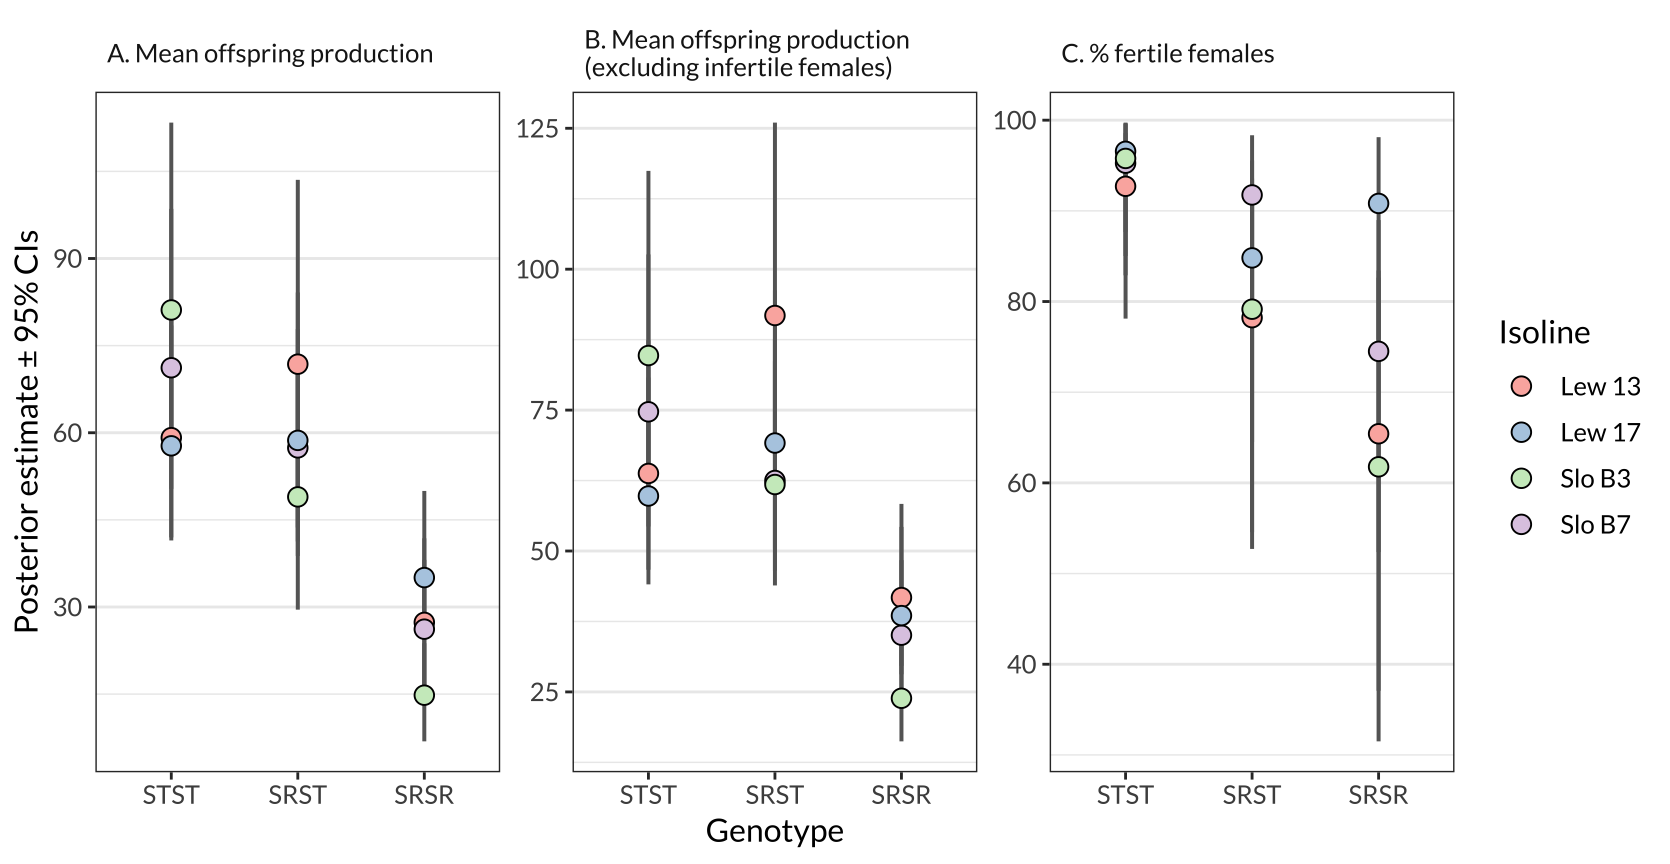
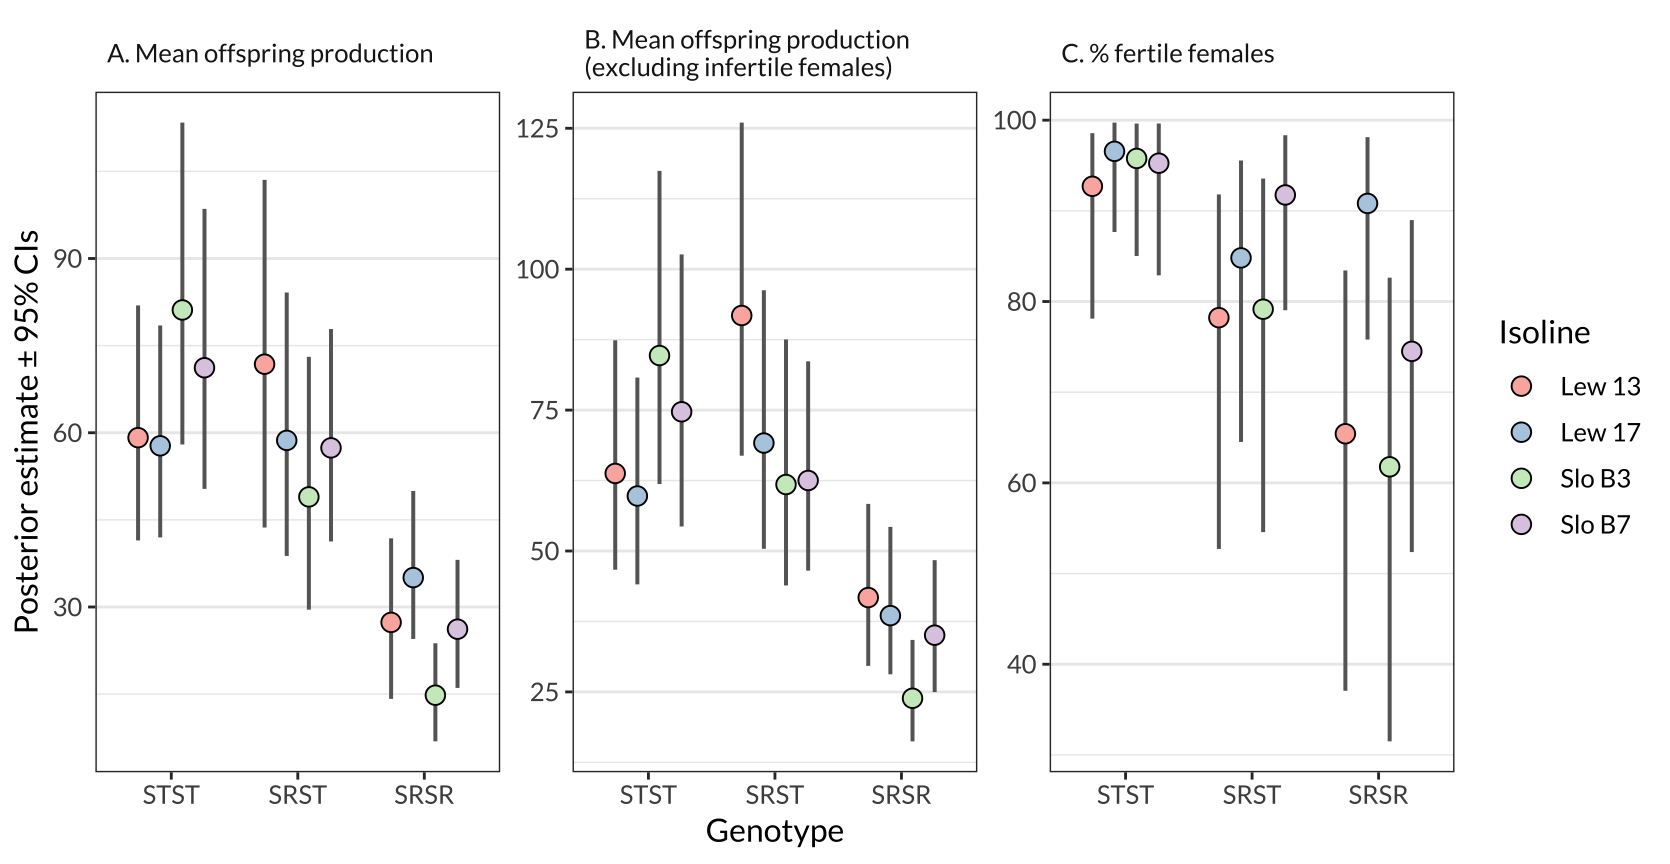
Build site.

diff --git a/docs/statistics.html b/docs/statistics.html
@@ -416,7 +416,7 @@ div.section {
 
 <p>
 <button type="button" class="btn btn-default btn-workflowr btn-workflowr-report" data-toggle="collapse" data-target="#workflowr-report">
-<span class="glyphicon glyphicon-list" aria-hidden="true"></span> workflowr <span class="glyphicon glyphicon-exclamation-sign text-danger" aria-hidden="true"></span>
+<span class="glyphicon glyphicon-list" aria-hidden="true"></span> workflowr <span class="glyphicon glyphicon-ok text-success" aria-hidden="true"></span>
 </button>
 </p>
 <div id="workflowr-report" class="collapse">
@@ -425,7 +425,7 @@ div.section {
 <a data-toggle="tab" href="#summary">Summary</a>
 </li>
 <li>
-<a data-toggle="tab" href="#checks"> Checks <span class="glyphicon glyphicon-exclamation-sign text-danger" aria-hidden="true"></span> </a>
+<a data-toggle="tab" href="#checks"> Checks <span class="glyphicon glyphicon-ok text-success" aria-hidden="true"></span> </a>
 </li>
 <li>
 <a data-toggle="tab" href="#versions">Past versions</a>
@@ -437,7 +437,7 @@ div.section {
 <strong>Last updated:</strong> 2019-08-14
 </p>
 <p>
-<strong>Checks:</strong> <span class="glyphicon glyphicon-ok text-success" aria-hidden="true"></span> 5 <span class="glyphicon glyphicon-exclamation-sign text-danger" aria-hidden="true"></span> 1
+<strong>Checks:</strong> <span class="glyphicon glyphicon-ok text-success" aria-hidden="true"></span> 6 <span class="glyphicon glyphicon-exclamation-sign text-danger" aria-hidden="true"></span> 0
 </p>
 <p>
 <strong>Knit directory:</strong> <code>cost_of_SR_Dpseudo/</code> <span class="glyphicon glyphicon-question-sign" aria-hidden="true" title="This is the local directory in which the code in this file was executed."> </span>
@@ -453,12 +453,12 @@ This reproducible <a href="http://rmarkdown.rstudio.com">R Markdown</a> analysis
 <div class="panel panel-default">
 <div class="panel-heading">
 <p class="panel-title">
-<a data-toggle="collapse" data-parent="#workflowr-checks" href="#strongRMarkdownfilestronguncommittedchanges"> <span class="glyphicon glyphicon-exclamation-sign text-danger" aria-hidden="true"></span> <strong>R Markdown file:</strong> uncommitted changes </a>
+<a data-toggle="collapse" data-parent="#workflowr-checks" href="#strongRMarkdownfilestronguptodate"> <span class="glyphicon glyphicon-ok text-success" aria-hidden="true"></span> <strong>R Markdown file:</strong> up-to-date </a>
 </p>
 </div>
-<div id="strongRMarkdownfilestronguncommittedchanges" class="panel-collapse collapse">
+<div id="strongRMarkdownfilestronguptodate" class="panel-collapse collapse">
 <div class="panel-body">
-<p>The R Markdown file has unstaged changes. To know which version of the R Markdown file created these results, you’ll want to first commit it to the Git repo. If you’re still working on the analysis, you can ignore this warning. When you’re finished, you can run <code>wflow_publish</code> to commit the R Markdown file and build the HTML.</p>
+<p>Great! Since the R Markdown file has been committed to the Git repository, you know the exact version of the code that produced these results.</p>
 </div>
 </div>
 </div>
@@ -513,10 +513,10 @@ This reproducible <a href="http://rmarkdown.rstudio.com">R Markdown</a> analysis
 <div class="panel panel-default">
 <div class="panel-heading">
 <p class="panel-title">
-<a data-toggle="collapse" data-parent="#workflowr-checks" href="#strongRepositoryversionstrongahrefhttpsgithubcomlukeholmancostofSRDpseudotree24d4c9c8efd48d58a41fc10fa2e4a20c565d1768targetblank24d4c9ca"> <span class="glyphicon glyphicon-ok text-success" aria-hidden="true"></span> <strong>Repository version:</strong> <a href="https://github.com/lukeholman/cost_of_SR_Dpseudo/tree/24d4c9c8efd48d58a41fc10fa2e4a20c565d1768" target="_blank">24d4c9c</a> </a>
+<a data-toggle="collapse" data-parent="#workflowr-checks" href="#strongRepositoryversionstrongahrefhttpsgithubcomlukeholmancostofSRDpseudotreee5f7926c0ebfdf8a7498e250b093b90dd0ab3c88targetblanke5f7926a"> <span class="glyphicon glyphicon-ok text-success" aria-hidden="true"></span> <strong>Repository version:</strong> <a href="https://github.com/lukeholman/cost_of_SR_Dpseudo/tree/e5f7926c0ebfdf8a7498e250b093b90dd0ab3c88" target="_blank">e5f7926</a> </a>
 </p>
 </div>
[2 lines of base64/hex data omitted]
 <div class="panel-body">
 <p>
 Great! You are using Git for version control. Tracking code development and connecting the code version to the results is critical for reproducibility. The version displayed above was the version of the Git repository at the time these results were generated. <br><br> Note that you need to be careful to ensure that all relevant files for the analysis have been committed to Git prior to generating the results (you can use <code>wflow_publish</code> or <code>wflow_git_commit</code>). workflowr only checks the R Markdown file, but you know if there are other scripts or data files that it depends on. Below is the status of the Git repository when the results were generated:
@@ -526,29 +526,11 @@ Ignored files:
     Ignored:    .DS_Store
     Ignored:    .Rhistory
     Ignored:    .Rproj.user/
-    Ignored:    analysis/figure/
     Ignored:    output/.DS_Store
 
-Untracked files:
-    Untracked:  figures/figure_S1.pdf
-    Untracked:  output/R2_of_brms_model1.rds
-    Untracked:  output/R2_of_brms_model2.rds
-    Untracked:  output/R2_of_full_model.rds
-    Untracked:  output/R2_of_genotype_only_model.rds
-    Untracked:  output/brms_model1.rds
-    Untracked:  output/brms_model2.rds
-    Untracked:  output/full_model.rds
-    Untracked:  output/genotype_only_model.rds
-    Untracked:  output/model_comparison.rds
-
 Unstaged changes:
-    Modified:   analysis/population_genetic_model.Rmd
-    Modified:   analysis/statistics.Rmd
-    Modified:   figures/figure_1.pdf
     Modified:   figures/figure_2.pdf
     Modified:   figures/figure_3.pdf
-    Deleted:    figures/figure_4.pdf
-    Modified:   output/brms_model.rds
 
 </code></pre>
 <p>
@@ -587,6 +569,40 @@ Message
 </tr>
 </thead>
 <tbody>
+<tr>
+<td>
+Rmd
+</td>
+<td>
+<a href="https://github.com/lukeholman/cost_of_SR_Dpseudo/blob/e5f7926c0ebfdf8a7498e250b093b90dd0ab3c88/analysis/statistics.Rmd" target="_blank">e5f7926</a>
+</td>
+<td>
+lukeholman
+</td>
+<td>
+2019-08-14
+</td>
+<td>
+working nicely
+</td>
+</tr>
+<tr>
+<td>
+html
+</td>
+<td>
+<a href="https://rawcdn.githack.com/lukeholman/cost_of_SR_Dpseudo/e5f7926c0ebfdf8a7498e250b093b90dd0ab3c88/docs/statistics.html" target="_blank">e5f7926</a>
+</td>
+<td>
+lukeholman
+</td>
+<td>
+2019-08-14
+</td>
+<td>
+working nicely
+</td>
+</tr>
 <tr>
 <td>
 html
@@ -1339,6 +1355,17 @@ Date
 </tr>
 </thead>
 <tbody>
+<tr>
+<td>
+<a href="https://github.com/lukeholman/cost_of_SR_Dpseudo/blob/e5f7926c0ebfdf8a7498e250b093b90dd0ab3c88/docs/figure/statistics.Rmd/unnamed-chunk-5-1.png" target="_blank">e5f7926</a>
+</td>
+<td>
+lukeholman
+</td>
+<td>
+2019-08-14
+</td>
+</tr>
 <tr>
 <td>
 <a href="https://github.com/lukeholman/cost_of_SR_Dpseudo/blob/13a5603ccb547a1fd1dd2626371948fea40f3d47/docs/figure/statistics.Rmd/unnamed-chunk-5-1.png" target="_blank">13a5603</a>
@@ -2699,8 +2726,8 @@ figure_1 &lt;- figure1_data[[1]] %&gt;%
 
 figure_S1 &lt;- figureS1_data[[1]] %&gt;%
   ggplot(aes(genotype, Estimate, fill = Isoline)) + 
-  geom_errorbar(aes(ymin = Q2.5, ymax = Q97.5), size = .7, width = 0, colour = &quot;grey40&quot;) + 
-  geom_point(size = 3.1, pch = 21, colour = &quot;black&quot;) + 
+  geom_errorbar(aes(ymin = Q2.5, ymax = Q97.5), size = .7, width = 0, colour = &quot;grey40&quot;, position = position_dodge(0.7)) + 
+  geom_point(size = 3.1, pch = 21, colour = &quot;black&quot;, position = position_dodge(0.7)) + 
   facet_wrap(~facet, scale = &quot;free_y&quot;) + 
   scale_fill_brewer(palette = &quot;Pastel1&quot;) +
   labs(y = &quot;Posterior estimate \u00B1 95% CIs&quot;, x = &quot;Genotype&quot;) + 
@@ -2738,6 +2765,17 @@ Date
 <tbody>
 <tr>
 <td>
+<a href="https://github.com/lukeholman/cost_of_SR_Dpseudo/blob/e5f7926c0ebfdf8a7498e250b093b90dd0ab3c88/docs/figure/statistics.Rmd/unnamed-chunk-9-1.png" target="_blank">e5f7926</a>
+</td>
+<td>
+lukeholman
+</td>
+<td>
+2019-08-14
+</td>
+</tr>
+<tr>
+<td>
 <a href="https://github.com/lukeholman/cost_of_SR_Dpseudo/blob/13a5603ccb547a1fd1dd2626371948fea40f3d47/docs/figure/statistics.Rmd/unnamed-chunk-9-1.png" target="_blank">13a5603</a>
 </td>
 <td>
@@ -2753,7 +2791,45 @@ lukeholman
 </div>
 <p><br></br> <strong>Figure 1</strong>: The black points and error bars show the posterior estimates of the genotype means for A) offspring production, B) offspring production among the set of females that produced at least one offspring, and C) the percentage of females that produced offspring. The estimates are all derived from a single hurdle model which adjusts for variation due to female age and experimental block, and each estimate is the average across the four isolines (see Figure S1 for estimates split by isoline). The points show the raw values of offspring production for individual females, and are coloured purple for females that produced no offspring. The error bars show the 95% credible intervals on each estimate.</p>
 <pre class="r"><code>figure_S1</code></pre>
-<p><img src="figure/statistics.Rmd/unnamed-chunk-10-1.png" width="835.2" style="display: block; margin: auto;" /> <br></br> <strong>Figure S1</strong>: The same information as in Figure 1, except split by isoline.</p>
+<p><img src="figure/statistics.Rmd/unnamed-chunk-10-1.png" width="835.2" style="display: block; margin: auto;" /></p>
+<p>
+<button type="button" class="btn btn-default btn-xs btn-workflowr btn-workflowr-fig" data-toggle="collapse" data-target="#fig-unnamed-chunk-10-1">
+Past versions of unnamed-chunk-10-1.png
+</button>
+</p>
+<div id="fig-unnamed-chunk-10-1" class="collapse">
+<div class="table-responsive">
+<table class="table table-condensed table-hover">
+<thead>
+<tr>
+<th>
+Version
+</th>
+<th>
+Author
+</th>
+<th>
+Date
+</th>
+</tr>
+</thead>
+<tbody>
+<tr>
+<td>
+<a href="https://github.com/lukeholman/cost_of_SR_Dpseudo/blob/e5f7926c0ebfdf8a7498e250b093b90dd0ab3c88/docs/figure/statistics.Rmd/unnamed-chunk-10-1.png" target="_blank">e5f7926</a>
+</td>
+<td>
+lukeholman
+</td>
+<td>
+2019-08-14
+</td>
+</tr>
+</tbody>
+</table>
+</div>
+</div>
+<p><br></br> <strong>Figure S1</strong>: The same information as in Figure 1, except split by isoline.</p>
 </div>
 </div>
 <div id="calculate-pairwise-differences-between-genotypes" class="section level2">

diff --git a/docs/population_genetic_model.html b/docs/population_genetic_model.html
@@ -416,7 +416,7 @@ div.section {
 
 <p>
 <button type="button" class="btn btn-default btn-workflowr btn-workflowr-report" data-toggle="collapse" data-target="#workflowr-report">
-<span class="glyphicon glyphicon-list" aria-hidden="true"></span> workflowr <span class="glyphicon glyphicon-exclamation-sign text-danger" aria-hidden="true"></span>
+<span class="glyphicon glyphicon-list" aria-hidden="true"></span> workflowr <span class="glyphicon glyphicon-ok text-success" aria-hidden="true"></span>
 </button>
 </p>
 <div id="workflowr-report" class="collapse">
@@ -425,7 +425,7 @@ div.section {
 <a data-toggle="tab" href="#summary">Summary</a>
 </li>
 <li>
-<a data-toggle="tab" href="#checks"> Checks <span class="glyphicon glyphicon-exclamation-sign text-danger" aria-hidden="true"></span> </a>
+<a data-toggle="tab" href="#checks"> Checks <span class="glyphicon glyphicon-ok text-success" aria-hidden="true"></span> </a>
 </li>
 <li>
 <a data-toggle="tab" href="#versions">Past versions</a>
@@ -437,7 +437,7 @@ div.section {
 <strong>Last updated:</strong> 2019-08-14
 </p>
 <p>
-<strong>Checks:</strong> <span class="glyphicon glyphicon-ok text-success" aria-hidden="true"></span> 5 <span class="glyphicon glyphicon-exclamation-sign text-danger" aria-hidden="true"></span> 1
+<strong>Checks:</strong> <span class="glyphicon glyphicon-ok text-success" aria-hidden="true"></span> 6 <span class="glyphicon glyphicon-exclamation-sign text-danger" aria-hidden="true"></span> 0
 </p>
 <p>
 <strong>Knit directory:</strong> <code>cost_of_SR_Dpseudo/</code> <span class="glyphicon glyphicon-question-sign" aria-hidden="true" title="This is the local directory in which the code in this file was executed."> </span>
@@ -453,12 +453,12 @@ This reproducible <a href="http://rmarkdown.rstudio.com">R Markdown</a> analysis
 <div class="panel panel-default">
 <div class="panel-heading">
 <p class="panel-title">
-<a data-toggle="collapse" data-parent="#workflowr-checks" href="#strongRMarkdownfilestronguncommittedchanges"> <span class="glyphicon glyphicon-exclamation-sign text-danger" aria-hidden="true"></span> <strong>R Markdown file:</strong> uncommitted changes </a>
+<a data-toggle="collapse" data-parent="#workflowr-checks" href="#strongRMarkdownfilestronguptodate"> <span class="glyphicon glyphicon-ok text-success" aria-hidden="true"></span> <strong>R Markdown file:</strong> up-to-date </a>
 </p>
 </div>
-<div id="strongRMarkdownfilestronguncommittedchanges" class="panel-collapse collapse">
+<div id="strongRMarkdownfilestronguptodate" class="panel-collapse collapse">
 <div class="panel-body">
-<p>The R Markdown file has unstaged changes. To know which version of the R Markdown file created these results, you’ll want to first commit it to the Git repo. If you’re still working on the analysis, you can ignore this warning. When you’re finished, you can run <code>wflow_publish</code> to commit the R Markdown file and build the HTML.</p>
+<p>Great! Since the R Markdown file has been committed to the Git repository, you know the exact version of the code that produced these results.</p>
 </div>
 </div>
 </div>
@@ -513,10 +513,10 @@ This reproducible <a href="http://rmarkdown.rstudio.com">R Markdown</a> analysis
 <div class="panel panel-default">
 <div class="panel-heading">
 <p class="panel-title">
-<a data-toggle="collapse" data-parent="#workflowr-checks" href="#strongRepositoryversionstrongahrefhttpsgithubcomlukeholmancostofSRDpseudotree24d4c9c8efd48d58a41fc10fa2e4a20c565d1768targetblank24d4c9ca"> <span class="glyphicon glyphicon-ok text-success" aria-hidden="true"></span> <strong>Repository version:</strong> <a href="https://github.com/lukeholman/cost_of_SR_Dpseudo/tree/24d4c9c8efd48d58a41fc10fa2e4a20c565d1768" target="_blank">24d4c9c</a> </a>
+<a data-toggle="collapse" data-parent="#workflowr-checks" href="#strongRepositoryversionstrongahrefhttpsgithubcomlukeholmancostofSRDpseudotreee5f7926c0ebfdf8a7498e250b093b90dd0ab3c88targetblanke5f7926a"> <span class="glyphicon glyphicon-ok text-success" aria-hidden="true"></span> <strong>Repository version:</strong> <a href="https://github.com/lukeholman/cost_of_SR_Dpseudo/tree/e5f7926c0ebfdf8a7498e250b093b90dd0ab3c88" target="_blank">e5f7926</a> </a>
 </p>
 </div>
[2 lines of base64/hex data omitted]
 <div class="panel-body">
 <p>
 Great! You are using Git for version control. Tracking code development and connecting the code version to the results is critical for reproducibility. The version displayed above was the version of the Git repository at the time these results were generated. <br><br> Note that you need to be careful to ensure that all relevant files for the analysis have been committed to Git prior to generating the results (you can use <code>wflow_publish</code> or <code>wflow_git_commit</code>). workflowr only checks the R Markdown file, but you know if there are other scripts or data files that it depends on. Below is the status of the Git repository when the results were generated:
@@ -527,27 +527,6 @@ Ignored files:
     Ignored:    .Rhistory
     Ignored:    .Rproj.user/
     Ignored:    output/.DS_Store
-
-Untracked files:
-    Untracked:  figures/figure_S1.pdf
-    Untracked:  output/R2_of_brms_model1.rds
-    Untracked:  output/R2_of_brms_model2.rds
-    Untracked:  output/R2_of_full_model.rds
-    Untracked:  output/R2_of_genotype_only_model.rds
-    Untracked:  output/brms_model1.rds
-    Untracked:  output/brms_model2.rds
-    Untracked:  output/full_model.rds
-    Untracked:  output/genotype_only_model.rds
-    Untracked:  output/model_comparison.rds
-
-Unstaged changes:
-    Modified:   analysis/population_genetic_model.Rmd
-    Modified:   analysis/statistics.Rmd
-    Modified:   figures/figure_1.pdf
-    Modified:   figures/figure_2.pdf
-    Modified:   figures/figure_3.pdf
-    Deleted:    figures/figure_4.pdf
-    Modified:   output/brms_model.rds
 
 </code></pre>
 <p>
@@ -586,6 +565,23 @@ Message
 </tr>
 </thead>
 <tbody>
+<tr>
+<td>
+html
+</td>
+<td>
+<a href="https://rawcdn.githack.com/lukeholman/cost_of_SR_Dpseudo/e5f7926c0ebfdf8a7498e250b093b90dd0ab3c88/docs/population_genetic_model.html" target="_blank">e5f7926</a>
+</td>
+<td>
+lukeholman
+</td>
+<td>
+2019-08-14
+</td>
+<td>
+working nicely
+</td>
+</tr>
 <tr>
 <td>
 html
